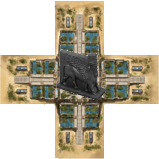
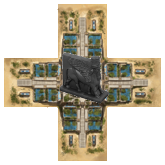
added even more border to wonder

Changed region(s): [[0.0, 0.0, 1.0, 1.0]]

diff --git a/tigriseuphrates/tigriseuphrates.css b/tigriseuphrates/tigriseuphrates.css
@@ -290,7 +290,7 @@
 
 .monument_wonder_wonder {
     background-image: url("img/wonder_tile.png");
-    background-size: 159px;
+    background-size: 165px;
     width: 100%;
     height: 100%;
 }
